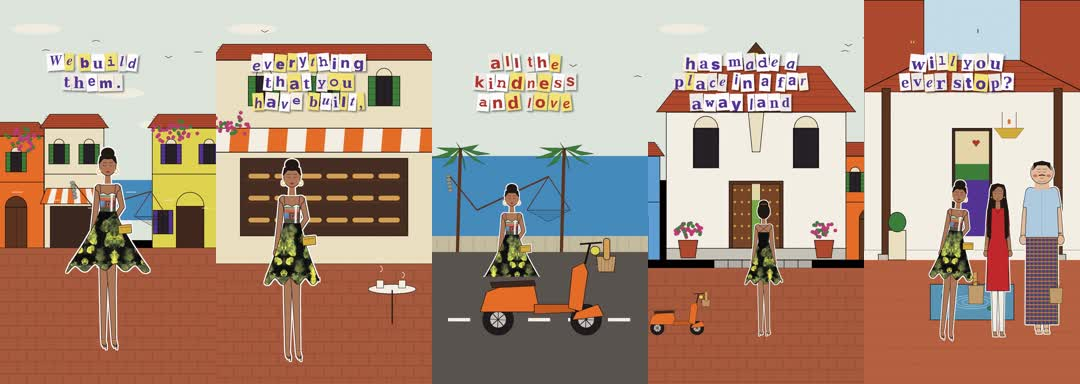
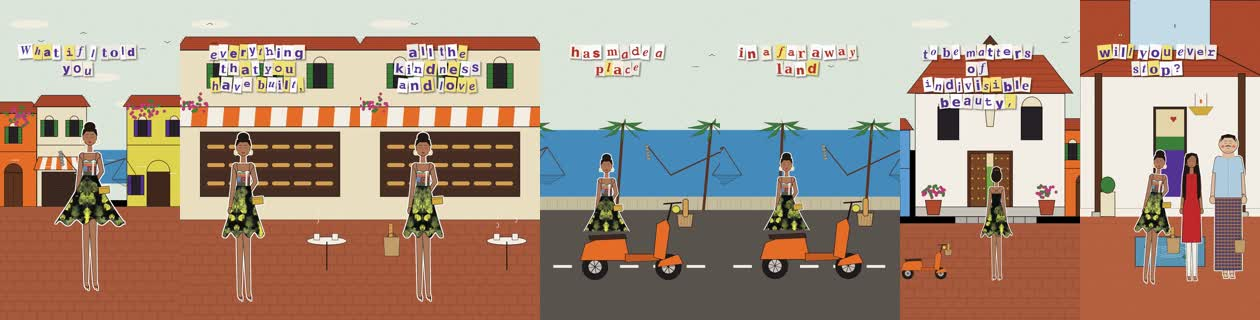
Reel 4: full far-away-land passage on screen
Claude-Session: https://claude.ai/code/session_019PesBvg4SEFhUJP6SN77P7

diff --git a/reel4/render.py b/reel4/render.py
@@ -393,8 +393,9 @@ PAINT = Image.open("reverie.jpg").convert("RGB")
 
 # ---------------------------------------------------------------- text
 # every line copied word for word from the book, in story order
-CARDS = [(0.3, 3.2, "We build them.", PURP), (3.6, 7.9, "everything that you have built,", PURP),
-         (8.4, 13.7, "all the kindness and love", RED), (14.1, 17.2, "has made a place in a far away land", PURP),
+CARDS = [(0.3, 3.2, "What if I told you", PURP), (3.6, 5.8, "everything that you have built,", PURP),
+         (6.0, 8.1, "all the kindness and love", PURP), (8.4, 11.0, "has made a place", RED),
+         (11.1, 13.7, "in a far away land", RED), (14.1, 17.2, "to be matters of indivisible beauty,", PURP),
          (18.0, 23.3, "will you ever stop?", PURP)]
 os.chdir(R2)
 CARD_IMG = [lib.ransom(s, ink, size=74, seed=i * 5 + 3, max_w=720) for i, (_, _, s, ink) in enumerate(CARDS)]
